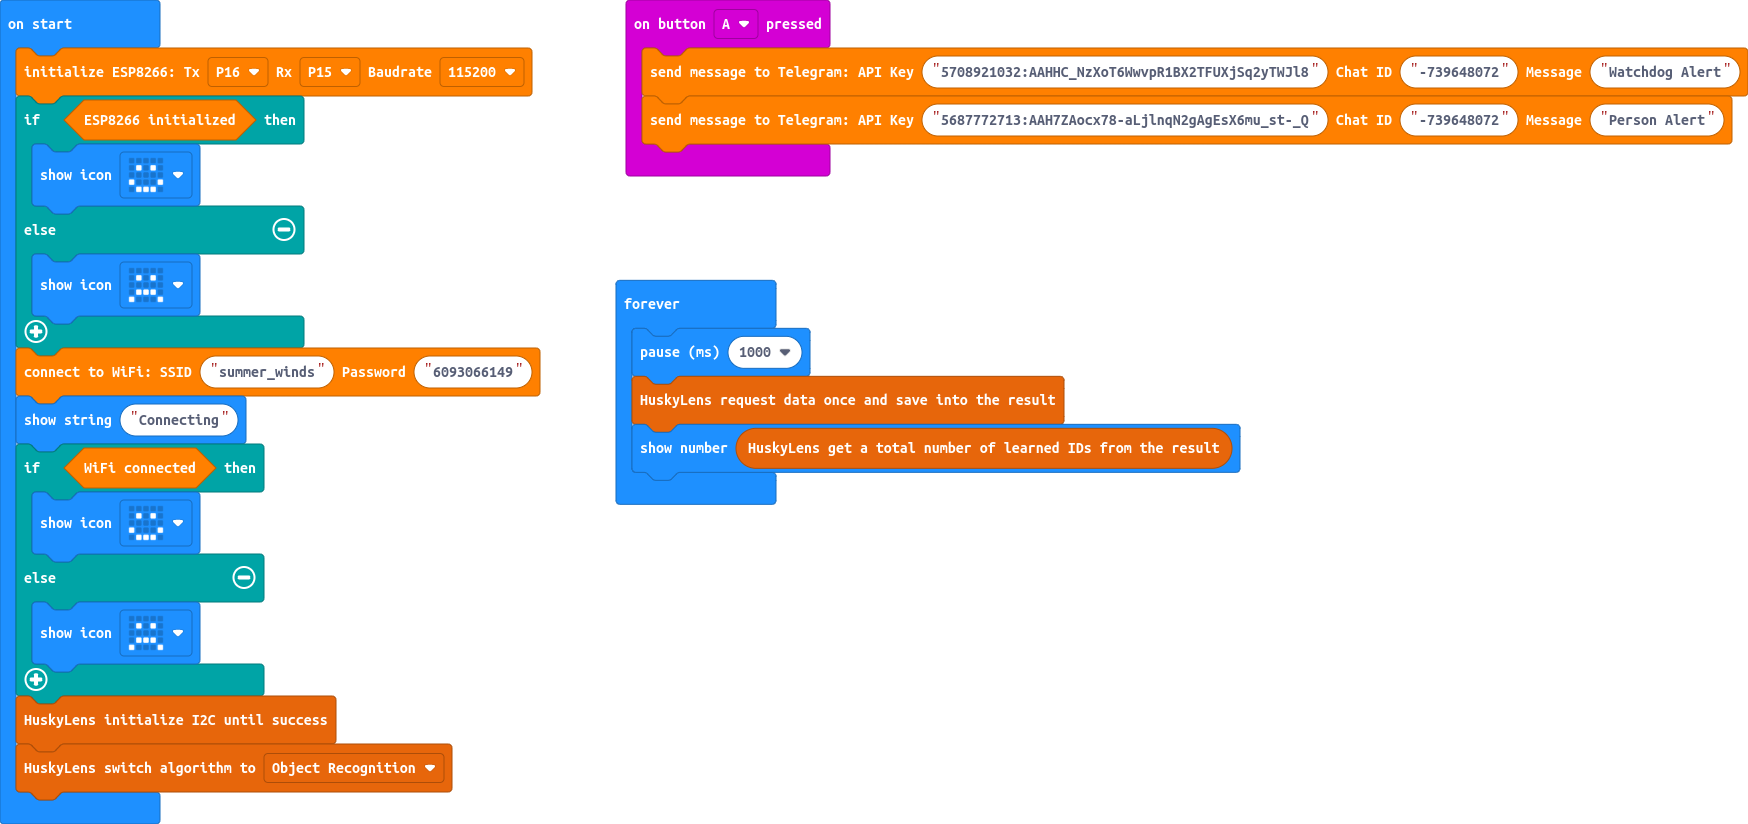
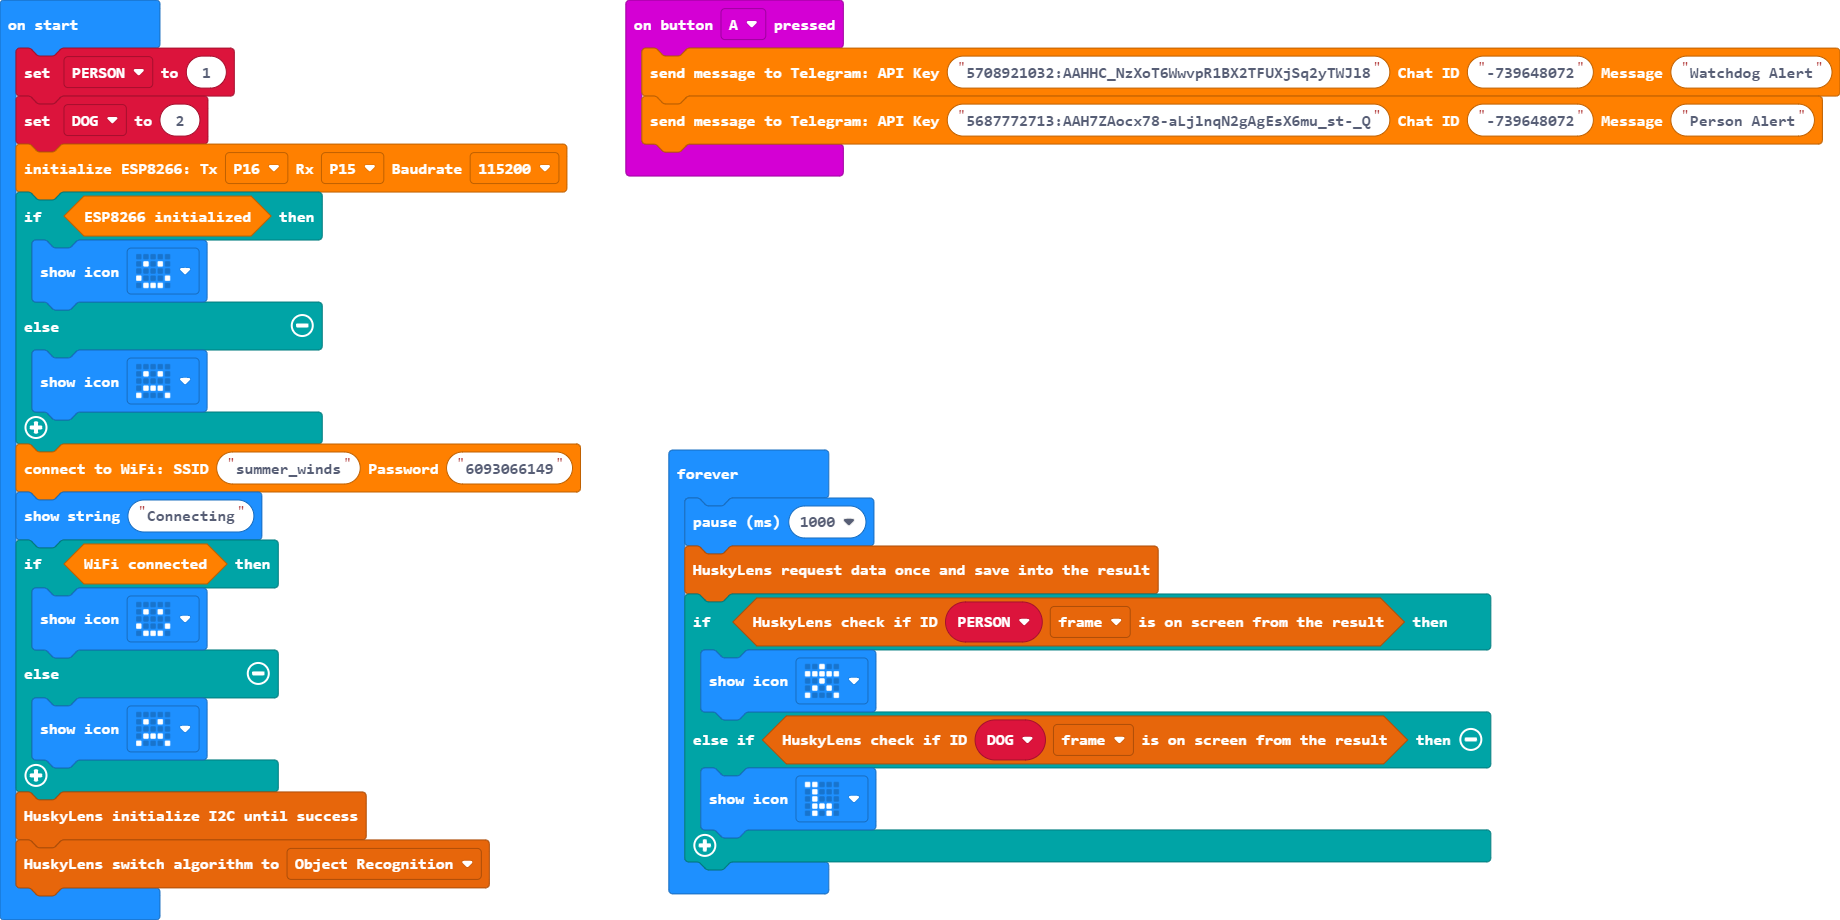
Update pxt.json, main.blocks, main.ts, main.py

diff --git a/main.ts b/main.ts
@@ -2,6 +2,8 @@ input.onButtonPressed(Button.A, function () {
     esp8266.sendTelegramMessage("5708921032:AAHHC_NzXoT6WwvpR1BX2TFUXjSq2yTWJl8", "-739648072", "Watchdog Alert")
     esp8266.sendTelegramMessage("5687772713:AAH7ZAocx78-aLjlnqN2gAgEsX6mu_st-_Q", "-739648072", "Person Alert")
 })
+let PERSON = 1
+let DOG = 2
 esp8266.init(SerialPin.P16, SerialPin.P15, BaudRate.BaudRate115200)
 if (esp8266.isESP8266Initialized()) {
     basic.showIcon(IconNames.Happy)
@@ -20,5 +22,9 @@ huskylens.initMode(protocolAlgorithm.ALGORITHM_OBJECT_RECOGNITION)
 basic.forever(function () {
     basic.pause(1000)
     huskylens.request()
-    basic.showNumber(huskylens.getIds())
+    if (huskylens.isAppear(PERSON, HUSKYLENSResultType_t.HUSKYLENSResultBlock)) {
+        basic.showIcon(IconNames.StickFigure)
+    } else if (huskylens.isAppear(DOG, HUSKYLENSResultType_t.HUSKYLENSResultBlock)) {
+        basic.showIcon(IconNames.Giraffe)
+    }
 })

diff --git a/main.py b/main.py
@@ -1,0 +1,31 @@
+def on_button_pressed_a():
+    esp8266.send_telegram_message("5708921032:AAHHC_NzXoT6WwvpR1BX2TFUXjSq2yTWJl8",
+        "-739648072",
+        "Watchdog Alert")
+    esp8266.send_telegram_message("5687772713:AAH7ZAocx78-aLjlnqN2gAgEsX6mu_st-_Q",
+        "-739648072",
+        "Person Alert")
+input.on_button_pressed(Button.A, on_button_pressed_a)
+
+PERSON = 1
+DOG = 2
+esp8266.init(SerialPin.P16, SerialPin.P15, BaudRate.BAUD_RATE115200)
+if esp8266.is_esp8266_initialized():
+    basic.show_icon(IconNames.HAPPY)
+else:
+    basic.show_icon(IconNames.SAD)
+esp8266.connect_wi_fi("summer_winds", "6093066149")
+basic.show_string("Connecting")
+if esp8266.is_wifi_connected():
+    basic.show_icon(IconNames.HAPPY)
+else:
+    basic.show_icon(IconNames.SAD)
+huskylens.init_i2c()
+huskylens.init_mode(protocolAlgorithm.ALGORITHM_OBJECT_RECOGNITION)
+
+def on_forever():
+    basic.pause(1000)
+    huskylens.request()
+    if True:
+        basic.show_number(huskylens.get_ids())
+basic.forever(on_forever)
